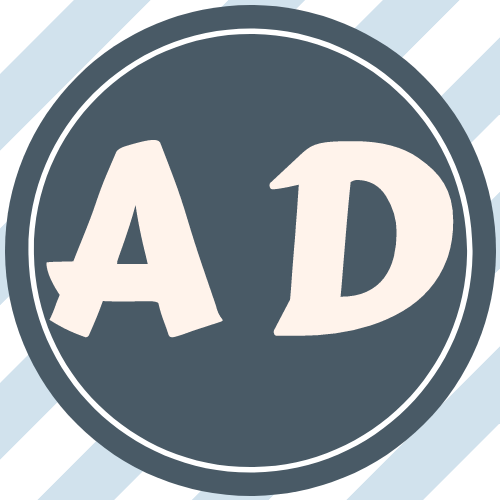
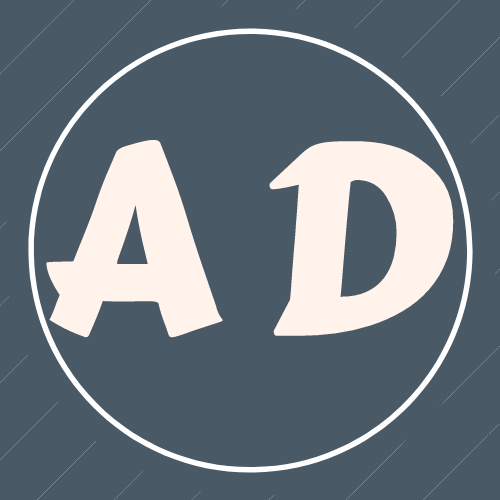
nav, header

Changed region(s): [[0.0, 0.0, 1.0, 1.0]]

diff --git a/index.html b/index.html
@@ -9,7 +9,7 @@
 	<link rel="stylesheet" type="text/css" media="screen" href="./css/materialize.min.css" />
 	<link rel="stylesheet" type="text/css" media="screen" href="./style.css" />
 	<link href="https://fonts.googleapis.com/icon?family=Material+Icons" rel="stylesheet">
-	<link rel="icon" type="image/png" sizes="16x16" href="ad.png">
+	<link rel="icon" type="image/png" sizes="16x16" href="usb.png">
 	<title>Document</title>
 </head>
 
@@ -17,13 +17,13 @@
 	<div class="navbar-fixed">
 		<nav>
 			<div class="nav-wrapper">
-				<a href="#!" class="brand-logo"><img class="img-logo" src="ad.png" alt=""></a>
+				<a href="#!" class="brand-logo"><img class="img-logo" src="usb.png" alt=""></a>
 				<a href="#" data-target="mobile-demo" class="sidenav-trigger"><i class="material-icons">menu</i></a>
 				<ul class="right hide-on-med-and-down">
-					<li><a href="sass.html">Portafolio</a></li>
+					<li><a href="#portfolio">Portafolio</a></li>
 					<!-- <li><a href="badges.html">Components</a></li> -->
-					<li><a href="collapsible.html">Skills</a></li>
-					<li><a href="mobile.html">Sobre Mí</a></li>
+					<li><a href="#skilss">Skills</a></li>
+					<li><a href="#aboutme">Sobre Mí</a></li>
 				</ul>
 			</div>
 		</nav>
@@ -31,17 +31,38 @@
 
 	<!-- version mobile -->
 	<ul class="sidenav" id="mobile-demo">
-		<li><a href="sass.html">Portafolio</a></li>
+		<li><a href="#portfolio">Portafolio</a></li>
 		<!-- <li><a href="badges.html">Components</a></li> -->
-		<li><a href="collapsible.html">Skills</a></li>
-		<li><a href="mobile.html">Sobre Mí</a></li>
+		<li><a href="#skilss">Skills</a></li>
+		<li><a href="#aboutme">Sobre Mí</a></li>
 	</ul>
 
 	<header>
 		<div class="parallax-container">
-			<div class="parallax"><img src="assets/ordenador.jpg"></div>
+			<div class="presentation">
+				<h1>ANAFLAVIA</h1>
+				<h2>Front-end Developer</h2>
+			</div>
+			<div class="parallax"> <img src="assets/background/business.jpeg"></div>
 		</div>
 	</header>
+
+	<aside class="secondary-color" id="portfolio">
+		<div class="title container">
+			<h1>Portafolio</h1>
+		</div>
+		<div class="container proy">
+			holi
+		</div>
+		<div class="container proy">
+			holi
+		</div>
+		<div class="container proy">
+			holi
+		</div>
+	</aside>
+
+
 	<script src="js/materialize.min.js"></script>
 	<script src="app.js"></script>
 </body>

diff --git a/style.css b/style.css
@@ -53,8 +53,32 @@ p {
 	width: 12%;
 }
 
-.parallax-container {
-	/* opacity: 1; */
+.presentation {
+	font-family: Lato;
+	color: white;
+	text-align: center;
+	margin-top: 10%;
+	/* opacity: 0.8; */
+}
+
+.presentation h1 {
+	font-size: 4.8rem !important;
+	font-weight: bold !important;
+}
+
+.title {
+	margin-top: -50px;
+}
+
+.primary-color {
+	background-color: #495a66;
+}
+.secondary-color {
+	background-color: #809eb2;
+}
+
+.parallax {
+	/* opacity: 0.7; */
 }
 
 /* color principal */

diff --git a/css/materialize.min.css b/css/materialize.min.css
@@ -4248,8 +4248,8 @@ table span.badge {
 
 nav {
 	color: #fff;
-	background-color: #809eb2;
-	/* background-color: #495a66; */
+	/* background-color: #809eb2; */
+	background-color: #495a66;
 	width: 100%;
 	height: 56px;
 	line-height: 56px
